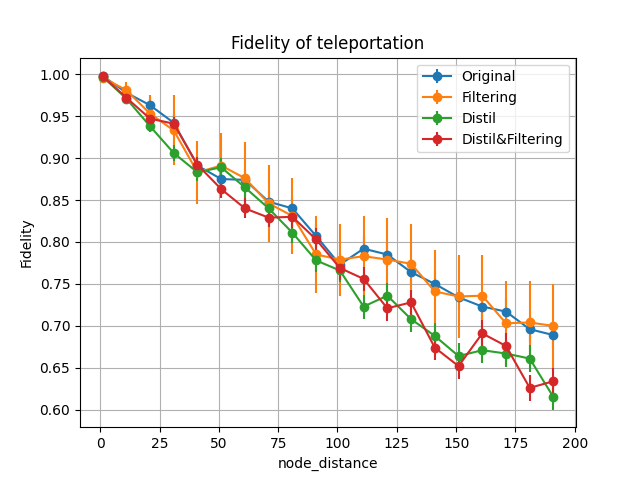
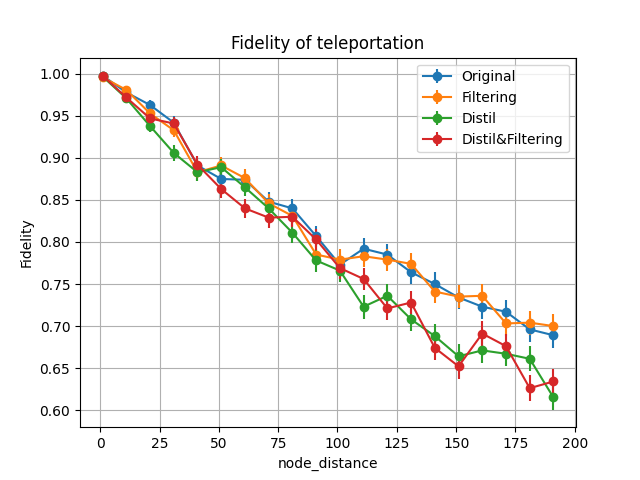
グラフ追加＆修正

diff --git a/simulation/plots_1000/result.py b/simulation/plots_1000/result.py
@@ -23,13 +23,21 @@ data22 = input_csv22.groupby("node_distance")['F2'].agg(fidelity='mean', sem='se
 data33 = input_csv33.groupby("node_distance")['F2'].agg(fidelity='mean', sem='sem').reset_index()
 data44 = input_csv44.groupby("node_distance")['F2'].agg(fidelity='mean', sem='sem').reset_index()
 
-xcolumn = data1['node_distance']
+time1 = input_csv11.groupby("node_distance")['time'].agg(time='mean', sem='sem').reset_index()
+time2 = input_csv22.groupby("node_distance")['time'].agg(time='mean', sem='sem').reset_index()
+time3 = input_csv33.groupby("node_distance")['time'].agg(time='mean', sem='sem').reset_index()
+time4 = input_csv44.groupby("node_distance")['time'].agg(time='mean', sem='sem').reset_index()
+
+xcolumn = time1['node_distance']
 
 save_dir = "."
 existing_files1 = len([f for f in os.listdir(save_dir) if f.startswith("Result_entanglement")])
 existing_files2 = len([f for f in os.listdir(save_dir) if f.startswith("Result_teleportation")])
+existing_files3 = len([f for f in os.listdir(save_dir) if f.startswith("Result_time")])
+
 filename1 = f"{save_dir}/Result_entanglement_{existing_files1 + 1}.png"
 filename2 = f"{save_dir}/Result_teleportation_{existing_files2 + 1}.png"
+filename3 = f"{save_dir}/Result_time_{existing_files3 + 1}.png"
 
 plt.figure()
 plt.errorbar(xcolumn, data1['fidelity'], yerr=data1['sem'], marker="o", label='Original')
@@ -47,10 +55,10 @@ plt.savefig(filename1)
 print(f"Plot saved as {filename1}")
 
 plt.figure()
-plt.errorbar(xcolumn, data11['fidelity'], yerr=data1['sem'], marker="o", label='Original')
-plt.errorbar(xcolumn, data22['fidelity'], yerr=data2['sem'], marker="o", label='Filtering')
-plt.errorbar(xcolumn, data33['fidelity'], yerr=data3['sem'], marker="o", label='Distil')
-plt.errorbar(xcolumn, data44['fidelity'], yerr=data4['sem'], marker="o", label='Distil&Filtering')
+plt.errorbar(xcolumn, data11['fidelity'], yerr=data11['sem'], marker="o", label='Original')
+plt.errorbar(xcolumn, data22['fidelity'], yerr=data22['sem'], marker="o", label='Filtering')
+plt.errorbar(xcolumn, data33['fidelity'], yerr=data33['sem'], marker="o", label='Distil')
+plt.errorbar(xcolumn, data44['fidelity'], yerr=data44['sem'], marker="o", label='Distil&Filtering')
 
 plt.xlabel('node_distance')
 plt.ylabel('Fidelity')
@@ -60,3 +68,18 @@ plt.grid()
 
 plt.savefig(filename2)
 print(f"Plot saved as {filename2}")
+
+plt.figure()
+plt.errorbar(xcolumn, time1['time'], yerr=time1['sem'], marker="o", label='Original')
+plt.errorbar(xcolumn, time2['time'], yerr=time2['sem'], marker="o", label='Filtering')
+plt.errorbar(xcolumn, time3['time'], yerr=time3['sem'], marker="o", label='Distil')
+plt.errorbar(xcolumn, time4['time'], yerr=time4['sem'], marker="o", label='Distil&Filtering')
+
+plt.xlabel('node_distance')
+plt.ylabel('Time [ns]')
+plt.title('Average time')
+plt.legend()
+plt.grid()
+
+plt.savefig(filename3)
+print(f"Plot saved as {filename3}")

diff --git a/simulation/plots_2000/result.py b/simulation/plots_2000/result.py
@@ -23,13 +23,21 @@ data22 = input_csv22.groupby("node_distance")['F2'].agg(fidelity='mean', sem='se
 data33 = input_csv33.groupby("node_distance")['F2'].agg(fidelity='mean', sem='sem').reset_index()
 data44 = input_csv44.groupby("node_distance")['F2'].agg(fidelity='mean', sem='sem').reset_index()
 
-xcolumn = data1['node_distance']
+time1 = input_csv11.groupby("node_distance")['time'].agg(time='mean', sem='sem').reset_index()
+time2 = input_csv22.groupby("node_distance")['time'].agg(time='mean', sem='sem').reset_index()
+time3 = input_csv33.groupby("node_distance")['time'].agg(time='mean', sem='sem').reset_index()
+time4 = input_csv44.groupby("node_distance")['time'].agg(time='mean', sem='sem').reset_index()
+
+xcolumn = time1['node_distance']
 
 save_dir = "."
 existing_files1 = len([f for f in os.listdir(save_dir) if f.startswith("Result_entanglement")])
 existing_files2 = len([f for f in os.listdir(save_dir) if f.startswith("Result_teleportation")])
+existing_files3 = len([f for f in os.listdir(save_dir) if f.startswith("Result_time")])
+
 filename1 = f"{save_dir}/Result_entanglement_{existing_files1 + 1}.png"
 filename2 = f"{save_dir}/Result_teleportation_{existing_files2 + 1}.png"
+filename3 = f"{save_dir}/Result_time_{existing_files3 + 1}.png"
 
 plt.figure()
 plt.errorbar(xcolumn, data1['fidelity'], yerr=data1['sem'], marker="o", label='Original')
@@ -47,10 +55,10 @@ plt.savefig(filename1)
 print(f"Plot saved as {filename1}")
 
 plt.figure()
-plt.errorbar(xcolumn, data11['fidelity'], yerr=data1['sem'], marker="o", label='Original')
-plt.errorbar(xcolumn, data22['fidelity'], yerr=data2['sem'], marker="o", label='Filtering')
-plt.errorbar(xcolumn, data33['fidelity'], yerr=data3['sem'], marker="o", label='Distil')
-plt.errorbar(xcolumn, data44['fidelity'], yerr=data4['sem'], marker="o", label='Distil&Filtering')
+plt.errorbar(xcolumn, data11['fidelity'], yerr=data11['sem'], marker="o", label='Original')
+plt.errorbar(xcolumn, data22['fidelity'], yerr=data22['sem'], marker="o", label='Filtering')
+plt.errorbar(xcolumn, data33['fidelity'], yerr=data33['sem'], marker="o", label='Distil')
+plt.errorbar(xcolumn, data44['fidelity'], yerr=data44['sem'], marker="o", label='Distil&Filtering')
 
 plt.xlabel('node_distance')
 plt.ylabel('Fidelity')
@@ -60,3 +68,18 @@ plt.grid()
 
 plt.savefig(filename2)
 print(f"Plot saved as {filename2}")
+
+plt.figure()
+plt.errorbar(xcolumn, time1['time'], yerr=time1['sem'], marker="o", label='Original')
+plt.errorbar(xcolumn, time2['time'], yerr=time2['sem'], marker="o", label='Filtering')
+plt.errorbar(xcolumn, time3['time'], yerr=time3['sem'], marker="o", label='Distil')
+plt.errorbar(xcolumn, time4['time'], yerr=time4['sem'], marker="o", label='Distil&Filtering')
+
+plt.xlabel('node_distance')
+plt.ylabel('Time [ns]')
+plt.title('Average time')
+plt.legend()
+plt.grid()
+
+plt.savefig(filename3)
+print(f"Plot saved as {filename3}")
